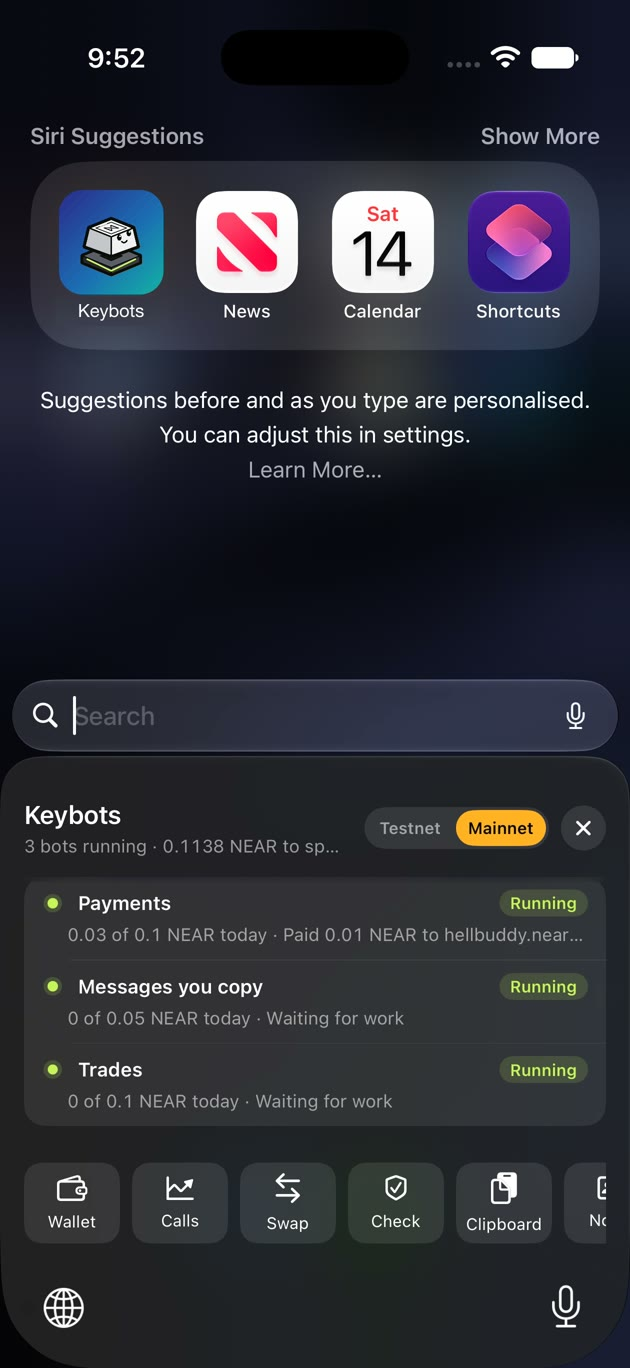
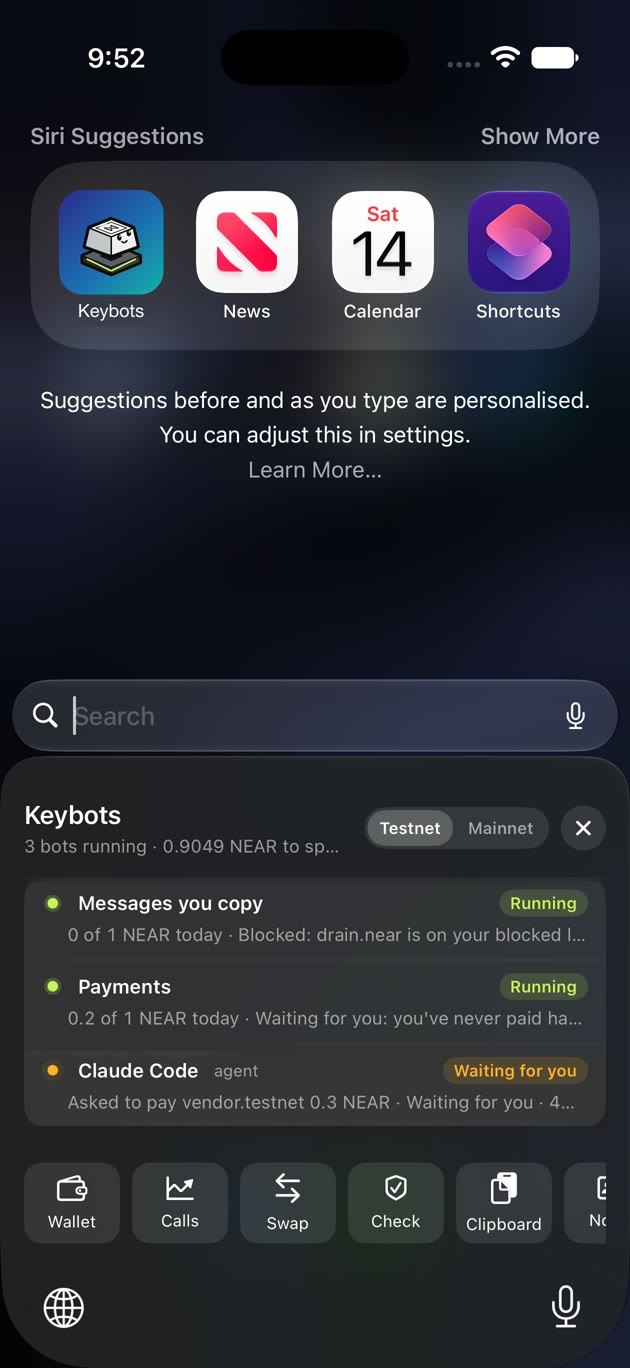
landing: hero iPhone shows Claude Code waiting for your approval in the Keybots panel (testnet), from the real keyboard-claude-code-row capture

diff --git a/landing/src/Journey.tsx b/landing/src/Journey.tsx
@@ -88,7 +88,7 @@ const CHAPTERS: Chapter[] = [
   },
 ];
 
-const HERO: Shot = { src: S("hero"), alt: "The Keybots keyboard on NEAR mainnet: three bots running, payments, messages you copy, trades" };
+const HERO: Shot = { src: S("hero"), alt: "The Keybots keyboard on NEAR testnet: Claude Code, an agent, is waiting for you to approve paying vendor.testnet 0.3 NEAR" };
 const NET_LABEL: Record<Net, string> = { mainnet: "Mainnet", testnet: "Testnet", both: "Mainnet + testnet" };
 
 function IPhone({ shots, active, rot }: { shots: Shot[]; active: number; rot: number }) {
